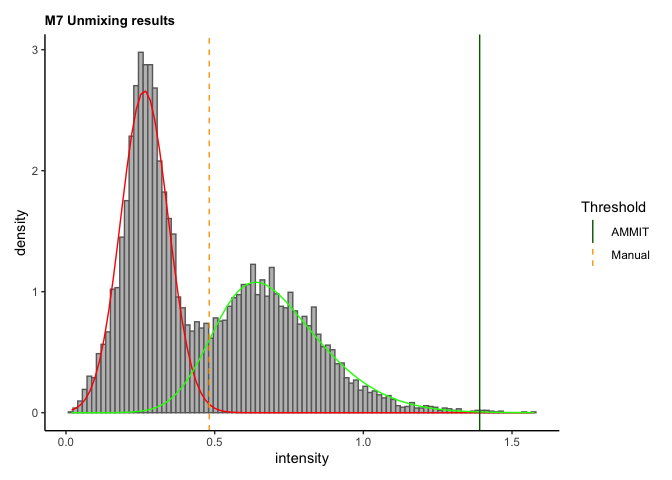
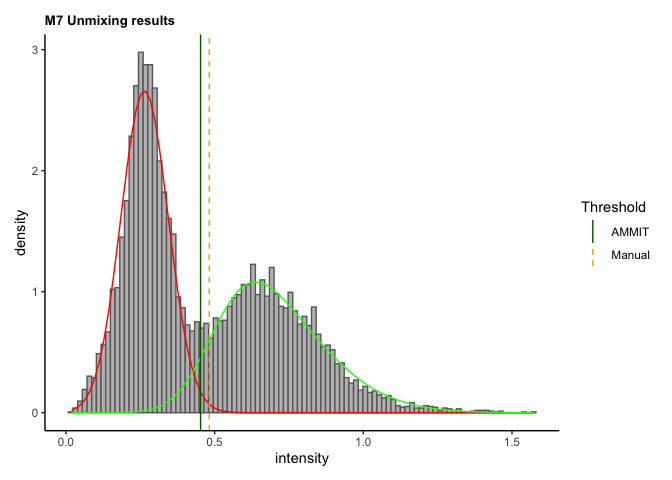
Fixed indexing of negative distributions. Renamed get_ammit_thresholds to calculate_ammit_thresholds for clarity.

Changed region(s): [[0.25, 0.0625, 0.3125, 0.875], [0.3438, 0.5938, 0.375, 0.625], [0.2188, 0.8438, 0.25, 0.875]]

diff --git a/README.md b/README.md
@@ -120,10 +120,10 @@ SummarizedExperiment::rowData(ammit_spe_dummy)["M7", ]
 #> DataFrame with 1 row and 15 columns
 #>    manual_threshold                mu                sigma2             shape
 #>           <numeric>            <list>                <list>            <list>
-#> M7         0.500596 0.499878,0.233041 0.07337717,0.00736484 2.399441,0.523859
-#>                  pii     nu      aic      bic      edc      icl   iter      n
-#>               <list> <list>   <list>   <list>   <list>   <list> <list> <list>
-#> M7 0.468718,0.531282      0 -2577.29 -2526.89 -2451.95 -1774.53    190   9906
+#> M7         0.500596 0.232583,0.499737 0.00742819,0.07355334 0.534929,2.445787
+#>                  pii     nu      aic      bic     edc      icl   iter      n
+#>               <list> <list>   <list>   <list>  <list>   <list> <list> <list>
+#> M7 0.532261,0.467739      0 -2577.14 -2526.73 -2451.8 -1784.59    204   9906
 #>         k unmix_transformation   unmixed
 #>    <list>          <character> <logical>
 #> M7      2                asinh      TRUE
@@ -151,8 +151,8 @@ strictness parameter to apply to the full cohort for each marker.
 ``` r
 strictness_m7 <- infer_strictness(ammit_spe_dummy, markers="M7", return="strictness")
 strictness_m7
-#>         M7 
-#> 0.04610125
+#>       M7 
+#> 2.435991
 ```
 
 As we can see, when we derive a threshold from the inferred strictness,
@@ -163,7 +163,7 @@ strictness parameter.
 
 ``` r
 # Get threshold for given strictness  (and store in rowData)
-ammit_spe_dummy <- get_ammit_thresholds(ammit_spe_dummy, markers="M7", strictness=strictness_m7, return="object")
+ammit_spe_dummy <- calculate_ammit_thresholds(ammit_spe_dummy, markers="M7", strictness=strictness_m7, return="object")
 # Plot
 plot_mixture(ammit_spe_dummy, markers="M7", thresholds="both", transformation="asinh")
 ```
@@ -178,7 +178,7 @@ AMMIT threshold for the marker, and then plot to check.
 
 ``` r
 # Get threshold for given strictness  (and store in rowData)
-ammit_spe_dummy <- get_ammit_thresholds(ammit_spe_dummy, markers="M7", strictness=3, return="object")
+ammit_spe_dummy <- calculate_ammit_thresholds(ammit_spe_dummy, markers="M7", strictness=2, return="object")
 # Plot
 plot_mixture(ammit_spe_dummy, markers="M7", thresholds="both", transformation="asinh")
 ```
